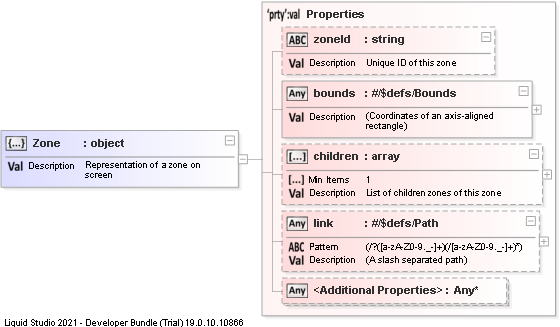
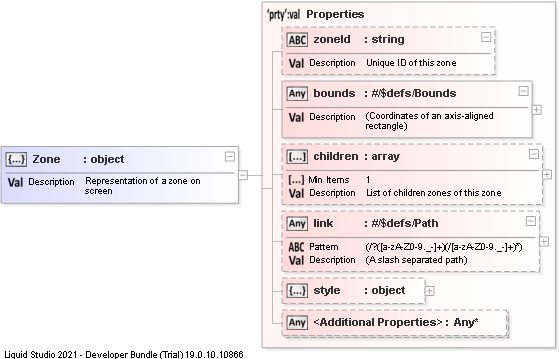
🚧 update documentation

Changed region(s): [[0.4554, 0.0306, 1.0, 0.9786], [0.0, 0.3976, 0.4554, 0.581], [0.0, 0.9786, 0.4554, 1.0]]

diff --git a/doc/property-style.html b/doc/property-style.html
@@ -4,7 +4,7 @@
    <head>
       <meta http-equiv="Content-Type" content="text/html; charset=UTF-8"></meta>
       <title>
-         Documentation for JSON Schema Property children
+         Documentation for JSON Schema Property style
          in 
       </title>
       <!-- saved from url=(0014)about:internet -->
@@ -13,7 +13,7 @@
          <!--
                             $(function () {
                                 // ensure the page opens within its frameset
-                                ensureInFrame('Property', 'property-children');
+                                ensureInFrame('Property', 'property-style');
                             });
                         --></script></head>
    <body>
@@ -22,19 +22,9 @@
             <div class="row">
                <div class="col-md-12">
                   <h1>
-                     JSON Schema Property 'children'
+                     JSON Schema Property 'style'
                      
                   </h1>
-               </div>
-            </div>
-         </div>
-         <div class="property-row">
-            <div class="row is-flex">
-               <div class="col-md-2 property-heading" tooltip="A description explaining the purpose of the instance described by this schema.">
-                  <h3>Description</h3>
-               </div>
-               <div class="col-md-10">
-                  <div class="valign-center">List of children zones of this zone</div>
                </div>
             </div>
          </div>
@@ -44,15 +34,7 @@
                   <h3>Diagram</h3>
                </div>
                <div class="col-md-10">
-                  <div class="valign-center"><map name="DiagramMap" id="DiagramMap">
-                        <area shape="rect" coords="309,168,540,190" href="def-zone.html" alt="Drilldown into /$defs/Zone"></area>
-                        <area shape="rect" coords="564,289,850,302" href="def-zone.html" alt="Drilldown into /$defs/Zone"></area>
-                        <area shape="rect" coords="600,239,823,264" href="def-zone.html" alt="Drilldown into /$defs/Zone"></area>
-                        <area shape="rect" coords="600,207,742,232" href="property-style.html" alt="Drilldown into /$defs/Zone/properties/style"></area>
-                        <area shape="rect" coords="600,175,786,200" href="def-path.html" alt="Drilldown into /$defs/Path"></area>
-                        <area shape="rect" coords="600,111,804,136" href="def-bounds.html" alt="Drilldown into /$defs/Bounds"></area>
-                        <area shape="rect" coords="580,54,833,276" href="def-zone.html" alt="Drilldown into /$defs/Zone"></area>
-                        <area shape="rect" coords="560,28,854,307" href="def-zone.html" alt="Drilldown into /$defs/Zone"></area></map><img src="images/property-children.png" border="0" alt="JSON Schema Diagram of /$defs/Zone/properties/children" usemap="#DiagramMap"></img></div>
+                  <div class="valign-center"><map name="DiagramMap" id="DiagramMap"></map><img src="images/property-style.png" border="0" alt="JSON Schema Diagram of /$defs/Zone/properties/style" usemap="#DiagramMap"></img></div>
                </div>
             </div>
          </div>
@@ -64,38 +46,43 @@
                <div class="col-md-10">
                   <div class="row value-type-row is-flex">
                      <div class="col-md-2">
-                        <h4>Array</h4>
+                        <h4>Object</h4>
                      </div>
                      <div class="col-md-10">
                         <div class="valign-center">
                            <div class="row">
                               <div class="col-md-12">
+                                 <h4>Properties</h4>
+                              </div>
+                           </div>
+                           <div class="row">
+                              <div class="col-md-12">
                                  <table class="table table-bordered">
                                     <thead>
                                        <tr>
-                                          <th class="col-md-3" tooltip="The index of value in the array (1 based)">Array Index</th>
+                                          <th class="col-md-3" tooltip="The name of the property, as it appears in the JSON instance document">Property Name</th>
                                           <th class="col-md-2" tooltip="The data types that this property can contain within the JSON instance document">Type</th>
                                           <th class="col-md-7" tooltip="A description of the property including validation rules">Description</th>
                                        </tr>
                                     </thead>
                                     <tr>
-                                       <td tooltip="Example {  : ... }">1-n
+                                       <td tooltip="Example { background : ... }">background</td>
+                                       <td>string</td>
+                                       <td>
+                                          A String value
                                           
                                        </td>
-                                       <td>object</td>
-                                       <td><a href="def-zone.html" title="/$defs/Zone">Zone
-                                             (lom.schema.json)
-                                             </a></td>
+                                    </tr>
+                                    <tr>
+                                       <td tooltip="Example { border : ... }">border</td>
+                                       <td>string</td>
+                                       <td>
+                                          A String value
+                                          
+                                       </td>
                                     </tr>
                                  </table>
                               </div>
-                           </div>
-                           <div class="row">
-                              <div class="col-md-5">
-                                 Minimum Items
-                                 
-                              </div>
-                              <div class="col-md-7"><i>1</i></div>
                            </div>
                         </div>
                      </div>
@@ -109,14 +96,18 @@
                   <h3>Source</h3>
                </div>
                <div class="col-md-10">
-                  <div class="valign-center"><pre class="json">"children": {
-    "type": "array",
-    "description": "List of children zones of this zone",
-    "minItems": 1,
-    "items": {
-        "$ref": "#/$defs/Zone"
+                  <div class="valign-center"><pre class="json">"style": {
+    "type": "object",
+    "additionalProperties": false,
+    "properties": {
+        "background": {
+            "type": "string"
+        },
+        "border": {
+            "type": "string"
+        }
     }
-}</pre><div><i>C:\Users\pilou\Workspaces\IntelliJ-IDEA\UX-Key\LOM-format\lom.schema.json (82:18)
+}</pre><div><i>C:\Users\pilou\Workspaces\IntelliJ-IDEA\UX-Key\LOM-format\lom.schema.json (93:18)
                            </i></div>
                   </div>
                </div>
@@ -131,6 +122,12 @@
                   <div class="valign-center">
                      <ul>
                         <li><a href="def-zone.html" title="/$defs/Zone">/$defs/Zone
+                              (lom.schema.json)
+                              </a></li>
+                        <li><a href="property-children.html" title="/$defs/Zone/properties/children">/$defs/Zone/properties/children
+                              (lom.schema.json)
+                              </a></li>
+                        <li><a href="schema-1.html" title="/$defs/Zone/properties/style/additionalProperties">/$defs/Zone/properties/style/additionalProperties
                               (lom.schema.json)
                               </a></li>
                      </ul>

diff --git a/doc/def-zone.html b/doc/def-zone.html
@@ -45,6 +45,7 @@
                </div>
                <div class="col-md-10">
                   <div class="valign-center"><map name="DiagramMap" id="DiagramMap">
+                        <area shape="rect" coords="282,278,424,303" href="property-style.html" alt="Drilldown into /$defs/Zone/properties/style"></area>
                         <area shape="rect" coords="286,253,534,266" href="def-path.html" alt="Drilldown into /$defs/Path"></area>
                         <area shape="rect" coords="286,240,534,253" href="def-path.html" alt="Drilldown into /$defs/Path"></area>
                         <area shape="rect" coords="282,211,538,271" href="def-path.html" alt="Drilldown into /$defs/Path"></area>
@@ -115,6 +116,13 @@
                                              (lom.schema.json)
                                              </a></td>
                                     </tr>
+                                    <tr>
+                                       <td tooltip="Example { style : ... }">style</td>
+                                       <td>object</td>
+                                       <td><a href="property-style.html" title="/$defs/Zone/properties/style">style
+                                             (lom.schema.json)
+                                             </a></td>
+                                    </tr>
                                     <thead>
                                        <tr>
                                           <th class="col-md-3" tooltip="Any property not matched by the properties described above, must comply with the rules below.">Additional Properties</th>
@@ -172,6 +180,18 @@
         },
         "link": {
             "$ref": "#/$defs/Path"
+        },
+        "style": {
+            "type": "object",
+            "additionalProperties": false,
+            "properties": {
+                "background": {
+                    "type": "string"
+                },
+                "border": {
+                    "type": "string"
+                }
+            }
         }
     },
     "required": [
@@ -200,7 +220,7 @@
                         <li><a href="property-loms.html" title="/properties/loms">/properties/loms
                               (lom.schema.json)
                               </a></li>
-                        <li><a href="schema-2.html" title="/properties/loms/additionalProperties">/properties/loms/additionalProperties
+                        <li><a href="schema-3.html" title="/properties/loms/additionalProperties">/properties/loms/additionalProperties
                               (lom.schema.json)
                               </a></li>
                      </ul>

diff --git a/doc/schema-3.html b/doc/schema-3.html
@@ -4,7 +4,7 @@
    <head>
       <meta http-equiv="Content-Type" content="text/html; charset=UTF-8"></meta>
       <title>
-         Documentation for JSON Schema /$defs/Zone/properties/style/additionalProperties
+         Documentation for JSON Schema /properties/loms/additionalProperties
          in 
       </title>
       <!-- saved from url=(0014)about:internet -->
@@ -13,7 +13,7 @@
          <!--
                             $(function () {
                                 // ensure the page opens within its frameset
-                                ensureInFrame('Schema', 'schema-1');
+                                ensureInFrame('Schema', 'schema-3');
                             });
                         --></script></head>
    <body>
@@ -22,7 +22,7 @@
             <div class="row">
                <div class="col-md-12">
                   <h1>
-                     JSON Schema /$defs/Zone/properties/style/additionalProperties
+                     JSON Schema /properties/loms/additionalProperties
                   </h1>
                </div>
             </div>
@@ -34,7 +34,9 @@
                </div>
                <div class="col-md-10">
                   <div class="valign-center"><map name="DiagramMap" id="DiagramMap">
-                        <area shape="rect" coords="1,2,189,94" href="property-style.html" alt="Drilldown into /$defs/Zone/properties/style"></area></map><img src="images/schema-1.png" border="0" alt="JSON Schema Diagram of /$defs/Zone/properties/style/additionalProperties" usemap="#DiagramMap"></img></div>
+                        <area shape="rect" coords="25,56,339,69" href="def-zone.html" alt="Drilldown into /$defs/Zone"></area>
+                        <area shape="rect" coords="21,27,343,74" href="def-zone.html" alt="Drilldown into /$defs/Zone"></area>
+                        <area shape="rect" coords="1,2,356,84" href="property-loms.html" alt="Drilldown into /properties/loms"></area></map><img src="images/schema-3.png" border="0" alt="JSON Schema Diagram of /properties/loms/additionalProperties" usemap="#DiagramMap"></img></div>
                </div>
             </div>
          </div>
@@ -72,7 +74,7 @@
                   <h3>Source</h3>
                </div>
                <div class="col-md-10">
-                  <div class="valign-center"><pre class="json">false</pre><div><i>C:\Users\pilou\Workspaces\IntelliJ-IDEA\UX-Key\LOM-format\lom.schema.json (96:44)
+                  <div class="valign-center"><pre class="json">false</pre><div><i>C:\Users\pilou\Workspaces\IntelliJ-IDEA\UX-Key\LOM-format\lom.schema.json (20:36)
                            </i></div>
                   </div>
                </div>

diff --git a/doc/schema-2.html b/doc/schema-2.html
@@ -4,7 +4,7 @@
    <head>
       <meta http-equiv="Content-Type" content="text/html; charset=UTF-8"></meta>
       <title>
-         Documentation for JSON Schema /properties/loms/additionalProperties
+         Documentation for JSON Schema /additionalProperties
          in 
       </title>
       <!-- saved from url=(0014)about:internet -->
@@ -22,7 +22,7 @@
             <div class="row">
                <div class="col-md-12">
                   <h1>
-                     JSON Schema /properties/loms/additionalProperties
+                     JSON Schema /additionalProperties
                   </h1>
                </div>
             </div>
@@ -34,9 +34,7 @@
                </div>
                <div class="col-md-10">
                   <div class="valign-center"><map name="DiagramMap" id="DiagramMap">
-                        <area shape="rect" coords="25,56,339,69" href="def-zone.html" alt="Drilldown into /$defs/Zone"></area>
-                        <area shape="rect" coords="21,27,343,74" href="def-zone.html" alt="Drilldown into /$defs/Zone"></area>
-                        <area shape="rect" coords="1,2,356,84" href="property-loms.html" alt="Drilldown into /properties/loms"></area></map><img src="images/schema-2.png" border="0" alt="JSON Schema Diagram of /properties/loms/additionalProperties" usemap="#DiagramMap"></img></div>
+                        <area shape="rect" coords="1,1,224,26" href="file-lom_schema_json.html" alt="Drilldown into /"></area></map><img src="images/schema-2.png" border="0" alt="JSON Schema Diagram of /additionalProperties" usemap="#DiagramMap"></img></div>
                </div>
             </div>
          </div>
@@ -74,7 +72,7 @@
                   <h3>Source</h3>
                </div>
                <div class="col-md-10">
-                  <div class="valign-center"><pre class="json">false</pre><div><i>C:\Users\pilou\Workspaces\IntelliJ-IDEA\UX-Key\LOM-format\lom.schema.json (20:36)
+                  <div class="valign-center"><pre class="json">true</pre><div><i>C:\Users\pilou\Workspaces\IntelliJ-IDEA\UX-Key\LOM-format\lom.schema.json (7:28)
                            </i></div>
                   </div>
                </div>

diff --git a/doc/file-lom_schema_json.html b/doc/file-lom_schema_json.html
@@ -316,6 +316,18 @@
                 },
                 "link": {
                     "$ref": "#/$defs/Path"
+                },
+                "style": {
+                    "type": "object",
+                    "additionalProperties": false,
+                    "properties": {
+                        "background": {
+                            "type": "string"
+                        },
+                        "border": {
+                            "type": "string"
+                        }
+                    }
                 }
             },
             "required": [
@@ -337,7 +349,7 @@
                <div class="col-md-10">
                   <div class="valign-center">
                      <ul>
-                        <li><a href="schema-1.html" title="/additionalProperties">/additionalProperties
+                        <li><a href="schema-2.html" title="/additionalProperties">/additionalProperties
                               (lom.schema.json)
                               </a></li>
                      </ul>

diff --git a/doc/defaultpage.html b/doc/defaultpage.html
@@ -63,6 +63,12 @@
                               (lom.schema.json)
                               </a></div>
                      </div>
+                     <div class="row">
+                        <div class="col-md-4"><a href="property-style.html" title="/$defs/Zone/properties/style">style</a></div>
+                        <div class="col-md-8"><a href="property-style.html" title="/$defs/Zone/properties/style">/$defs/Zone/properties/style
+                              (lom.schema.json)
+                              </a></div>
+                     </div>
                   </div>
                </div>
             </div>

diff --git a/doc/property-loms.html b/doc/property-loms.html
@@ -114,7 +114,7 @@
                         <li><a href="file-lom_schema_json.html" title="/">/
                               (lom.schema.json)
                               </a></li>
-                        <li><a href="schema-2.html" title="/properties/loms/additionalProperties">/properties/loms/additionalProperties
+                        <li><a href="schema-3.html" title="/properties/loms/additionalProperties">/properties/loms/additionalProperties
                               (lom.schema.json)
                               </a></li>
                      </ul>

diff --git a/doc/contents.html b/doc/contents.html
@@ -33,6 +33,9 @@
             <li class="list-group-item"><a href="property-loms.html" target="ContentFrame" title="/properties/loms">loms
                   (lom.schema.json)
                   </a></li>
+            <li class="list-group-item"><a href="property-style.html" target="ContentFrame" title="/$defs/Zone/properties/style">style
+                  (lom.schema.json)
+                  </a></li>
             <li class="list-group-item active">
                Definitions
                
